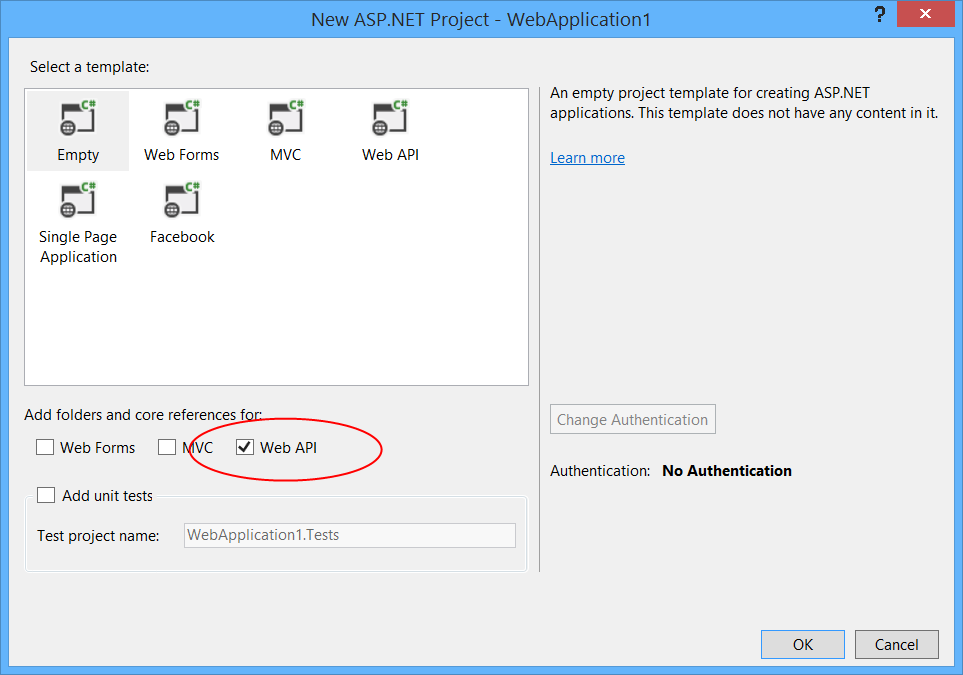
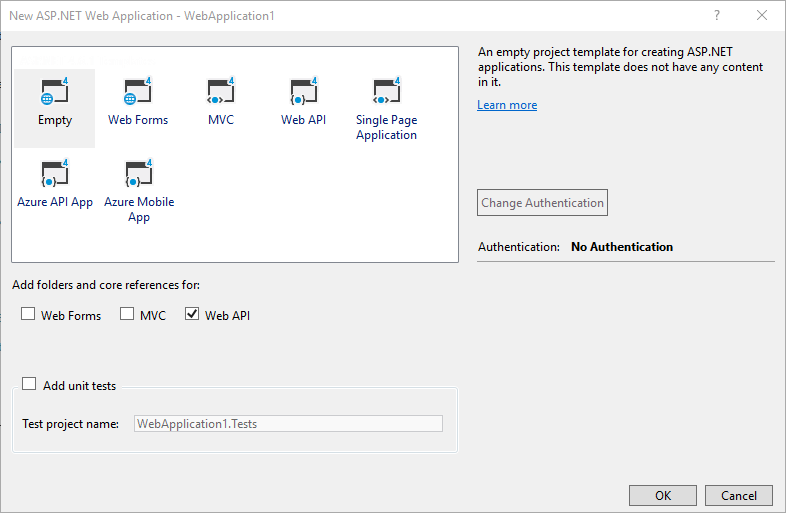
vs2017-update-advanced-configuring-aspnet-webapi

diff --git a/aspnet/web-api/overview/advanced/configuring-aspnet-web-api.md b/aspnet/web-api/overview/advanced/configuring-aspnet-web-api.md
@@ -43,6 +43,11 @@ Web API configuration setttings are defined in the [HttpConfiguration](https://m
 | **Routes** | The collection of routes. See [Routing in ASP.NET Web API](../web-api-routing-and-actions/routing-in-aspnet-web-api.md). |
 | **Services** | The collection of services. See [Services](#services). |
 
+
+## Prerequisites
+
+[Visual Studio 2017](https://www.visualstudio.com/vs/) Community, Professional, or Enterprise Edition.
+
 <a id="webhost"></a>
 ## Configuring Web API with ASP.NET Hosting
 
@@ -52,7 +57,7 @@ Here is an example using an anonymous delegate:
 
 [!code-csharp[Main](configuring-aspnet-web-api/samples/sample1.cs)]
 
-In Visual Studio 2013, the "ASP.NET Web Application" project template automatically sets up the configuration code, if you select "Web API" in the **New ASP.NET Project** dialog.
+In Visual Studio 2017, the "ASP.NET Web Application" project template automatically sets up the configuration code, if you select "Web API" in the **New ASP.NET Project** dialog.
 
 [![](configuring-aspnet-web-api/_static/image2.png)](configuring-aspnet-web-api/_static/image1.png)
 
